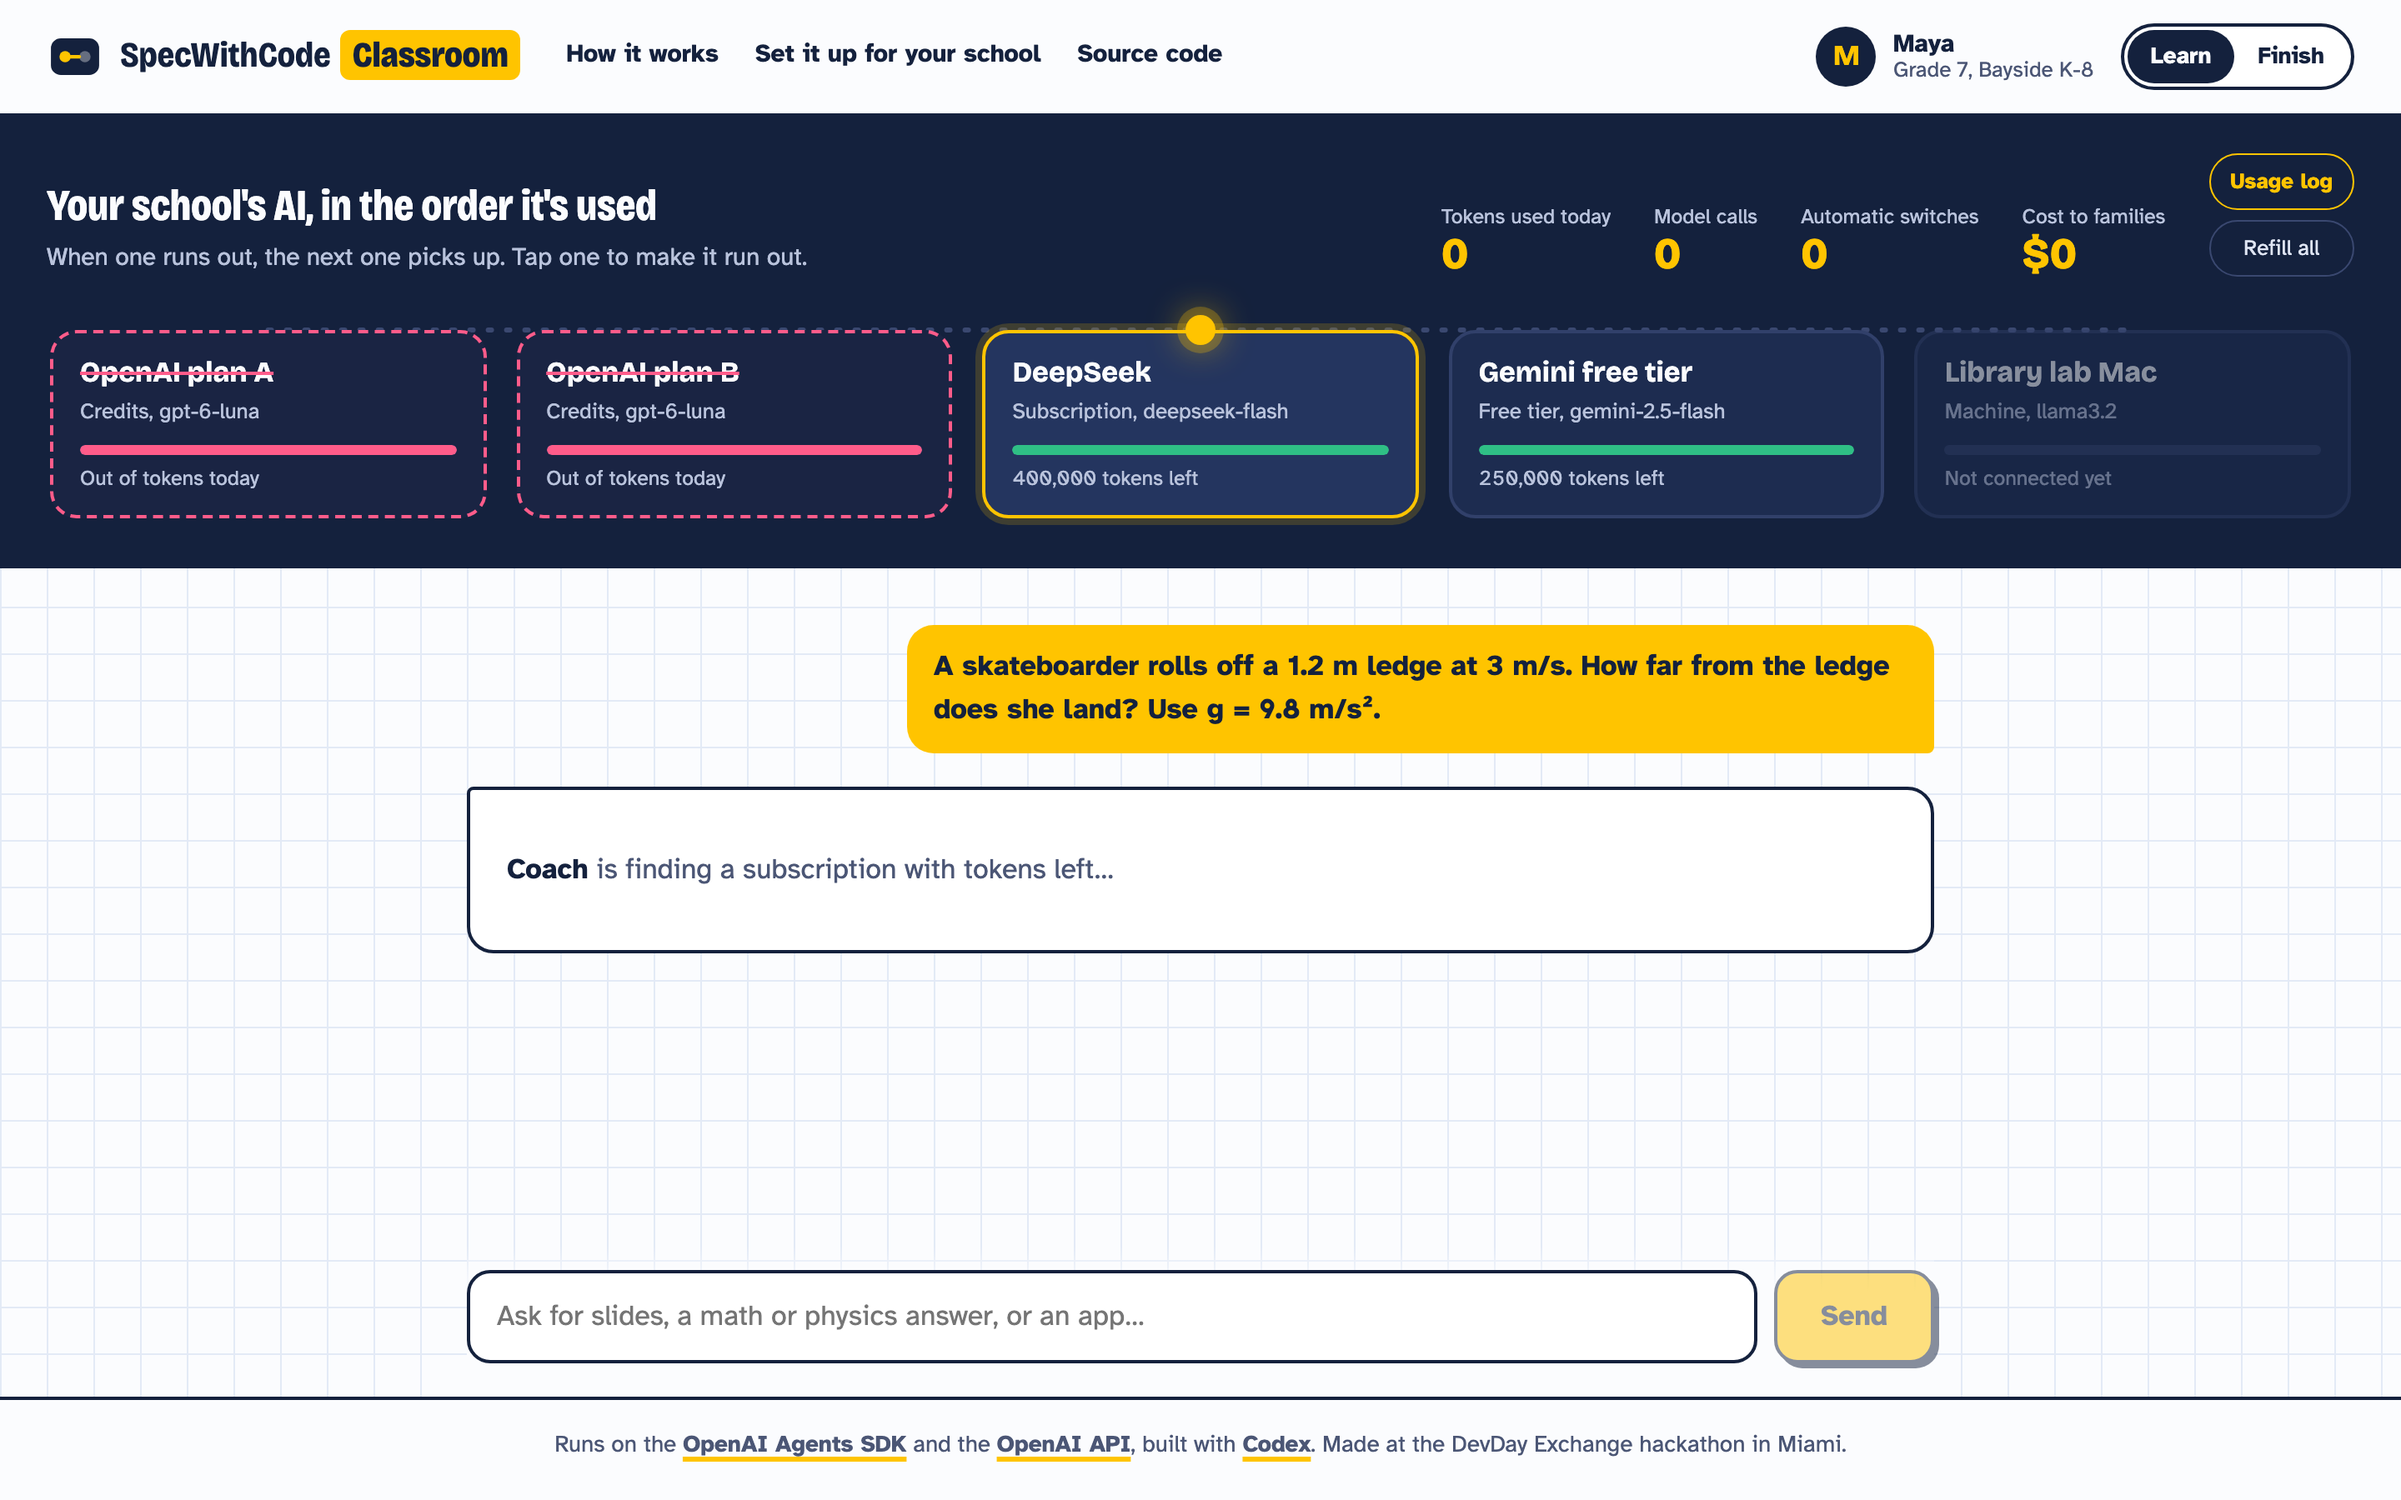
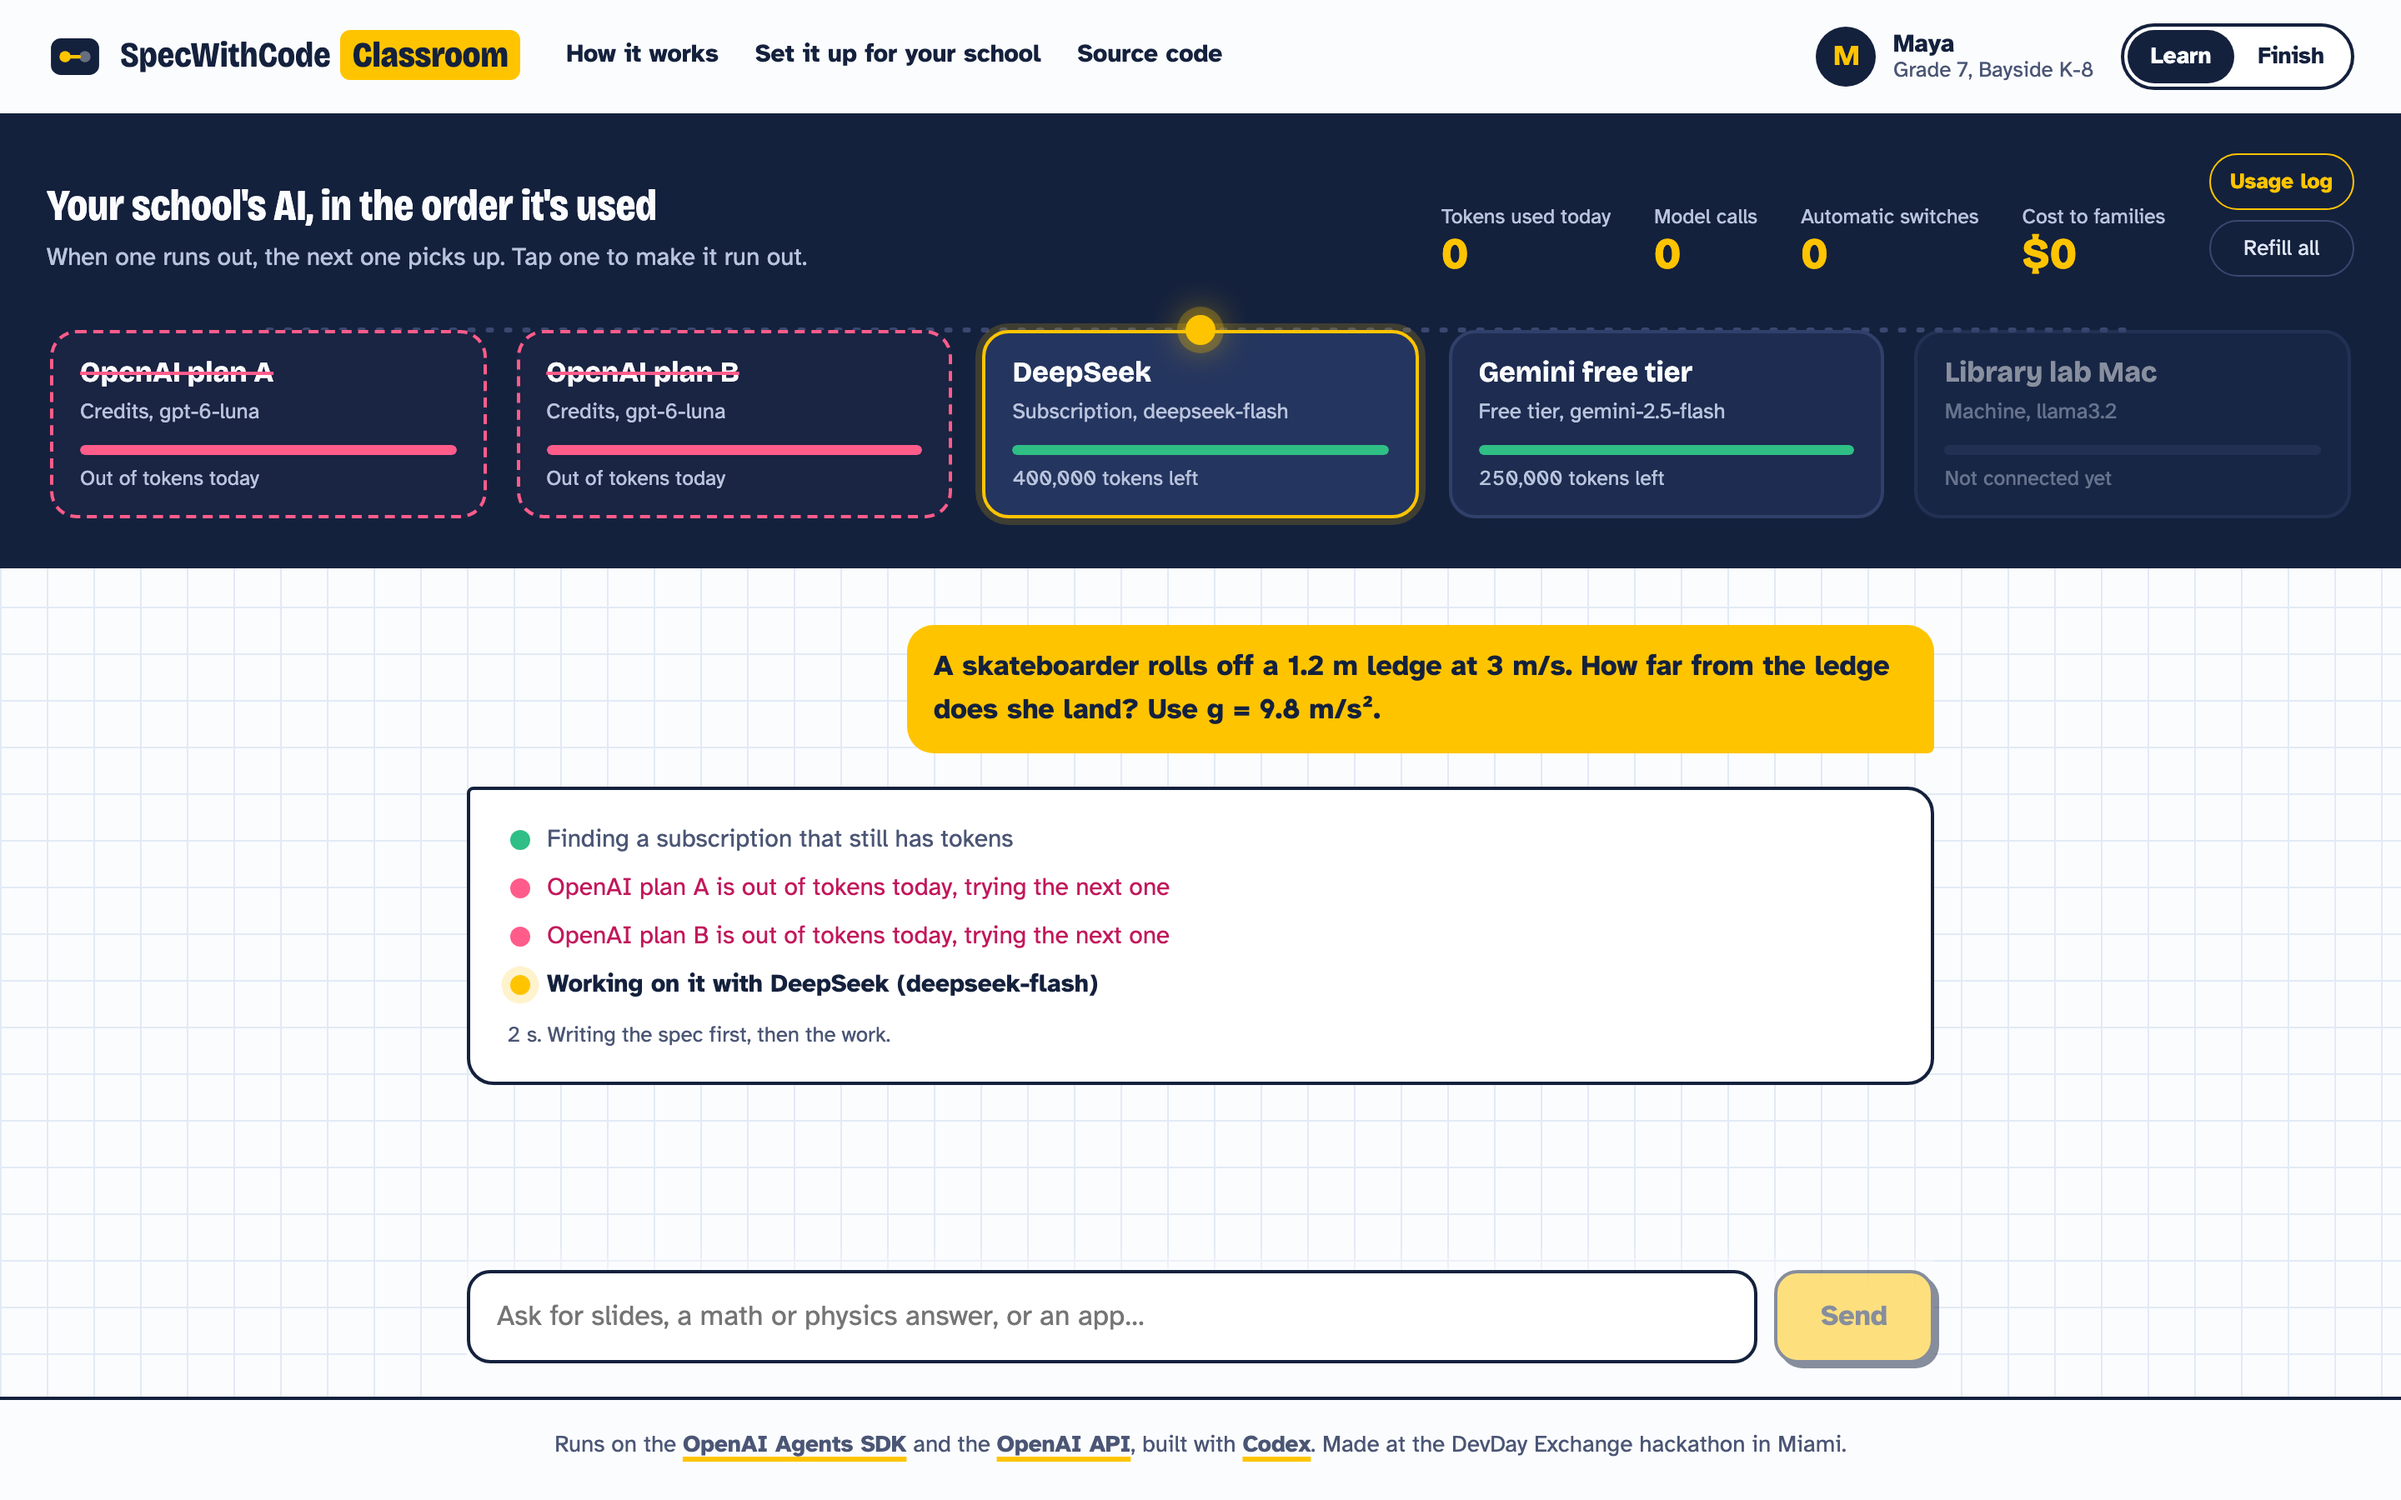
Explain routing in each answer and show live progress inline

Changed region(s): [[0.1875, 0.56, 0.7812, 0.7467], [0.7812, 0.6222, 0.8125, 0.6533]]

diff --git a/static/app.js b/static/app.js
@@ -137,10 +137,15 @@ function stopPulse() {
   pulse = null;
 }
 
-async function relayWhileWaiting() {
+async function relayWhileWaiting(say = () => {}) {
   for (const p of state.providers) {
     if (p.status === "offline") continue;
-    if (state.exhausted.has(p.id) || p.status === "exhausted") { await bounceOff(p.id); continue; }
+    if (state.exhausted.has(p.id) || p.status === "exhausted") {
+      say(`${p.label} is out of tokens today, trying the next one`, "skip");
+      await bounceOff(p.id);
+      continue;
+    }
+    say(`Working on it with ${p.label} (${p.model})`, "live");
     await batonTo(p.id);
     nodeEl(p.id)?.classList.add("active");
     startPulse();
@@ -194,27 +199,21 @@ function addUser(text) {
   feed.appendChild(el);
 }
 
-function routeChips(route) {
-  const wrap = document.createElement("div");
-  wrap.className = "route";
-  const label = Object.fromEntries(state.providers.map((p) => [p.id, p.label.replace(" free tier", "")]));
-  const hops = [];
-  for (const e of route) {
-    const last = hops[hops.length - 1];
-    if (last && last.outcome === "served" && e.outcome === "served" && last.provider === e.provider) {
-      last.ms += e.ms; last.tokens += e.tokens; last.calls += 1;
-    } else hops.push({ ...e, calls: 1 });
-  }
-  for (const e of hops) {
-    const hop = document.createElement("span");
-    hop.className = `hop ${e.outcome}`;
-    hop.title = e.detail;
-    hop.textContent = e.outcome === "served"
-      ? `${label[e.provider] || e.provider} ✓ ${e.calls} calls · ${(e.ms / 1000).toFixed(1)}s · ${e.tokens.toLocaleString()} tok`
-      : `${label[e.provider] || e.provider} · ${e.detail.split(":")[0]}`;
-    wrap.appendChild(hop);
-  }
-  return wrap;
+function routeStory(route) {
+  const name = (id) => state.providers.find((p) => p.id === id)?.label || id;
+  const model = (id) => state.providers.find((p) => p.id === id)?.model || "";
+  const served = route.filter((e) => e.outcome === "served");
+  const skipped = [...new Set(route.filter((e) => e.outcome === "switched").map((e) => name(e.provider)))];
+  const order = [...new Set(served.map((e) => e.provider))];
+  const tokens = served.reduce((n, e) => n + e.tokens, 0);
+  const secs = served.reduce((n, e) => n + e.ms, 0) / 1000;
+  const list = (xs) => (xs.length < 2 ? xs.join("") : `${xs.slice(0, -1).join(", ")} and ${xs.at(-1)}`);
+  let text = order.length > 1
+    ? `Started on ${name(order[0])} and finished on ${name(order.at(-1))} after it ran out.`
+    : `Answered by ${name(order[0])} (${model(order[0])}).`;
+  if (skipped.length) text += ` ${list(skipped)} ${skipped.length > 1 ? "were" : "was"} out of tokens, so it moved on by itself.`;
+  text += ` ${served.length} model calls, ${tokens.toLocaleString()} tokens, ${secs.toFixed(0)} s. Cost to Maya: $0.`;
+  return text;
 }
 
 function slidesArtifact(deck) {
@@ -320,12 +319,23 @@ async function send(text) {
   addUser(text);
   const bot = document.createElement("div");
   bot.className = "msg bot";
-  bot.innerHTML = '<p class="thinking"><b>Coach</b> is finding a subscription with tokens left…</p>';
+  bot.innerHTML = '<ol class="progress"></ol><p class="elapsed"></p>';
   feed.appendChild(bot);
   move(bot, { opacity: [0, 1], y: [12, 0] }, { duration: 0.3 });
   bot.scrollIntoView({ behavior: calm ? "auto" : "smooth", block: "end" });
   $("#send").disabled = true;
-  relayWhileWaiting();
+  const say = (msg, kind) => {
+    const li = Object.assign(document.createElement("li"), { className: kind, textContent: msg });
+    bot.querySelector(".progress")?.appendChild(li);
+    move(li, { opacity: [0, 1], x: [-8, 0] }, { duration: 0.25 });
+  };
+  say("Finding a subscription that still has tokens", "done");
+  const started = Date.now();
+  const tick = setInterval(() => {
+    const el = bot.querySelector(".elapsed");
+    if (el) el.textContent = `${Math.round((Date.now() - started) / 1000)} s. Writing the spec first, then the work.`;
+  }, 1000);
+  relayWhileWaiting(say);
   try {
     const r = await fetch("/api/chat", {
       method: "POST",
@@ -339,12 +349,16 @@ async function send(text) {
       state.ledger.push({ at, request: text.slice(0, 80), agent: data.agent, trace_id: data.trace_id, ...e });
     }
     saveLocal();
+    clearInterval(tick);
     bot.innerHTML = "";
     const head = document.createElement("div");
     head.className = "who-said";
-    head.innerHTML = '<span class="agent-tag"></span>';
+    head.innerHTML = '<span class="agent-tag"></span><p class="story"></p>';
     head.querySelector(".agent-tag").textContent = data.agent;
-    head.appendChild(routeChips(data.route));
+    head.querySelector(".story").append(routeStory(data.route));
+    const receipts = Object.assign(document.createElement("button"), { type: "button", className: "linkish", textContent: "See the receipts" });
+    receipts.onclick = () => $("#openLog").click();
+    head.querySelector(".story").append(" ", receipts);
     bot.appendChild(head);
     for (const a of data.artifacts) bot.appendChild(a.type === "slides" ? slidesArtifact(a) : a.type === "spec" ? specArtifact(a) : appArtifact(a));
     const body = document.createElement("div");
@@ -353,10 +367,12 @@ async function send(text) {
     bot.appendChild(body);
     state.history.push({ role: "user", content: text }, { role: "assistant", content: data.reply });
     move(bot.children, { opacity: [0, 1], y: [10, 0] }, { delay: stagger(0.08), duration: 0.35 });
+    bot.scrollIntoView({ behavior: calm ? "auto" : "smooth", block: "start" });
     const servedBy = await landOn(data.route);
     state.providers = data.providers;
     renderRing(servedBy);
   } catch (err) {
+    clearInterval(tick);
     stopPulse();
     bot.innerHTML = `<p class="error"></p>`;
     bot.querySelector(".error").textContent = `This request didn't finish: ${err.message}. Try again, or refill a subscription above.`;

diff --git a/static/style.css b/static/style.css
@@ -221,3 +221,19 @@ a { color: inherit; }
 .log-actions { display: flex; gap: 8px; justify-content: flex-end; margin-top: 12px; }
 .log-empty { padding: 18px; color: var(--ink-soft); }
 .spec-body .ac li { padding-left: 0; }
+
+.progress { list-style: none; margin: 0; padding: 0; display: grid; gap: 6px; font-size: 15px; }
+.progress li { padding-left: 24px; position: relative; color: var(--ink-soft); }
+.progress li::before { content: ""; position: absolute; left: 2px; top: 6px; width: 12px; height: 12px; border-radius: 50%; background: var(--line); }
+.progress li.done::before { background: var(--mint); }
+.progress li.skip { color: #c2185b; }
+.progress li.skip::before { background: var(--eraser); }
+.progress li.live { color: var(--ink); font-weight: 700; }
+.progress li.live::before { background: var(--bus); box-shadow: 0 0 0 4px rgba(255,196,0,.3); animation: blink 1.1s ease-in-out infinite; }
+@keyframes blink { 50% { box-shadow: 0 0 0 7px rgba(255,196,0,.05); } }
+.elapsed { margin: 8px 0 0; font-size: 13px; color: var(--ink-soft); font-variant-numeric: tabular-nums; }
+.who-said { align-items: flex-start; flex-wrap: nowrap; }
+.story { margin: 0; font-size: 15px; color: var(--ink-soft); line-height: 1.45; }
+.linkish { border: 0; background: none; padding: 0; font-weight: 700; color: var(--ink); text-decoration: underline; text-decoration-color: var(--bus); text-decoration-thickness: 3px; text-underline-offset: 3px; }
+.agent-tag { flex: none; }
+@media (prefers-reduced-motion: reduce) { .progress li.live::before { animation: none; } }

diff --git a/scripts/screens.py b/scripts/screens.py
@@ -29,7 +29,7 @@ with sync_playwright() as pw:
     page.screenshot(path="docs/02a-relay-in-motion.png")
     wait_reply(page, 1)
     page.locator(".msg.bot .who-said").last.scroll_into_view_if_needed()
-    page.evaluate("window.scrollTo(0, 0)")
+    page.evaluate("document.querySelector('.msg.user').scrollIntoView({block: 'start'})")
     page.wait_for_timeout(1500)
     page.wait_for_timeout(800)
     page.screenshot(path="docs/02-failover-physics.png")
